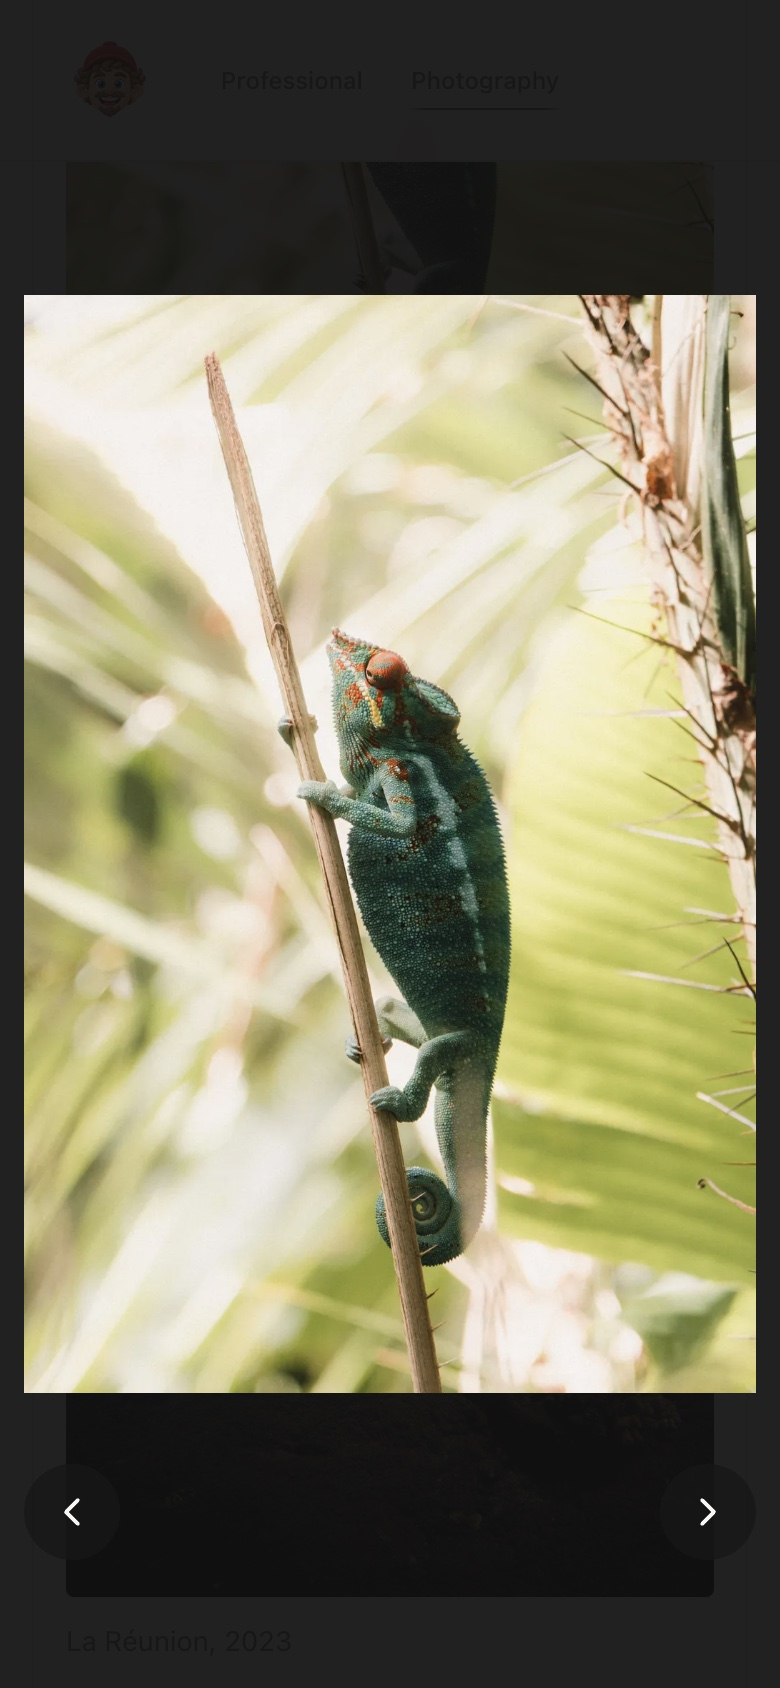
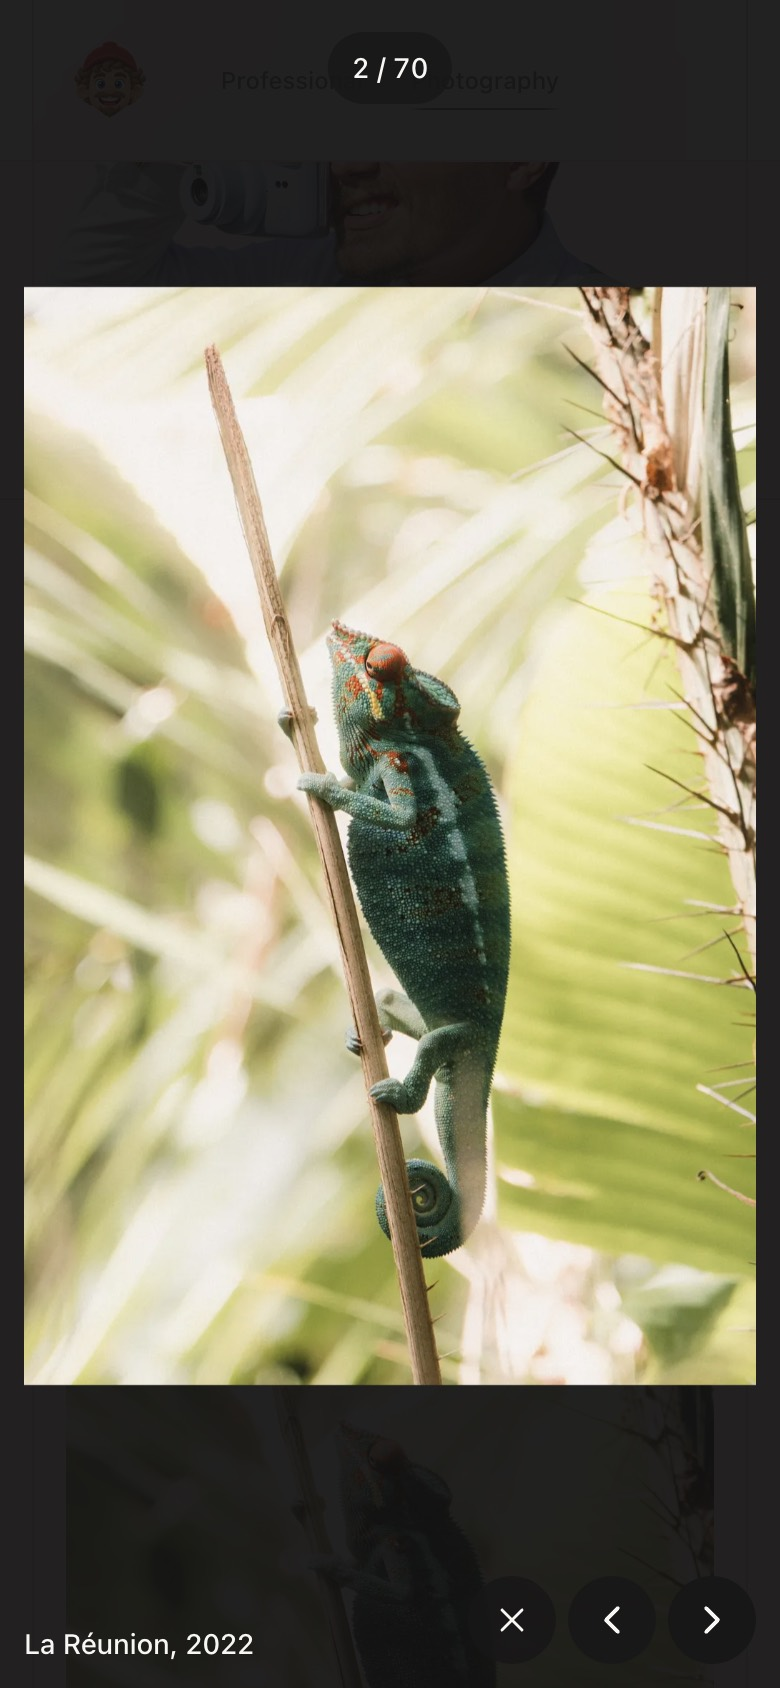
fix: add mobile lightbox metadata footer

diff --git a/apps/web/src/routes/photography.tsx b/apps/web/src/routes/photography.tsx
@@ -147,7 +147,7 @@ function PhotographDialog({
       className="fixed inset-0 h-dvh w-screen outline-none"
     >
       <Dialog.Close
-        className="absolute top-4 right-4 z-10 grid size-11 cursor-pointer place-items-center rounded-full bg-charcoal/80 text-paper transition-colors hover:bg-charcoal focus-visible:outline-2 focus-visible:outline-offset-2 focus-visible:outline-paper"
+        className="absolute top-4 right-4 z-10 hidden size-11 cursor-pointer place-items-center rounded-full bg-charcoal/80 text-paper transition-colors hover:bg-charcoal focus-visible:outline-2 focus-visible:outline-offset-2 focus-visible:outline-paper sm:grid"
         aria-label="Close photograph"
       >
         <svg
@@ -162,7 +162,7 @@ function PhotographDialog({
           <path d="m6 6 12 12M18 6 6 18" />
         </svg>
       </Dialog.Close>
-      <div className="absolute inset-x-3 top-16 bottom-16 flex items-center justify-center sm:inset-x-20">
+      <div className="absolute inset-x-3 top-16 bottom-[calc(env(safe-area-inset-bottom)+4.5rem)] flex items-center justify-center sm:inset-x-20 sm:bottom-16">
         <ModalPhotograph key={photo.src} photo={photo} />
       </div>
       <output
@@ -174,7 +174,7 @@ function PhotographDialog({
         {index + 1} / {photographs.length}
       </output>
       <button
-        className="absolute bottom-16 left-3 top-auto z-10 grid size-12 translate-y-0 place-items-center rounded-full bg-charcoal/80 text-paper transition-colors hover:bg-charcoal focus-visible:outline-2 focus-visible:outline-offset-2 focus-visible:outline-paper sm:top-1/2 sm:bottom-auto sm:-translate-y-1/2 sm:left-6"
+        className="absolute right-auto bottom-[calc(env(safe-area-inset-bottom)+0.75rem)] left-3 top-auto z-10 hidden size-11 translate-y-0 place-items-center rounded-full bg-charcoal/80 text-paper transition-colors hover:bg-charcoal focus-visible:outline-2 focus-visible:outline-offset-2 focus-visible:outline-paper sm:top-1/2 sm:bottom-auto sm:grid sm:size-12 sm:-translate-y-1/2 sm:left-6"
         type="button"
         onClick={() => onNavigate(-1)}
         aria-label="Previous photograph"
@@ -193,11 +193,13 @@ function PhotographDialog({
           <path d="m15 18-6-6 6-6" />
         </svg>
       </button>
-      <Dialog.Title className="absolute right-16 bottom-5 left-16 truncate text-center text-sm font-medium text-paper sm:right-20 sm:left-20">
-        {photographCaption(photo) || "Photograph"}
+      <Dialog.Title className="absolute right-[10.75rem] bottom-[calc(env(safe-area-inset-bottom)+0.75rem)] left-3 z-10 line-clamp-2 text-left text-sm leading-5 font-medium text-paper sm:right-20 sm:bottom-5 sm:left-20 sm:line-clamp-none sm:truncate sm:text-center">
+        {photographCaption(photo) || (
+          <span className="sr-only">Photograph</span>
+        )}
       </Dialog.Title>
       <button
-        className="absolute bottom-16 right-3 top-auto z-10 grid size-12 translate-y-0 place-items-center rounded-full bg-charcoal/80 text-paper transition-colors hover:bg-charcoal focus-visible:outline-2 focus-visible:outline-offset-2 focus-visible:outline-paper sm:top-1/2 sm:bottom-auto sm:-translate-y-1/2 sm:right-6"
+        className="absolute right-3 bottom-[calc(env(safe-area-inset-bottom)+0.75rem)] left-auto top-auto z-10 hidden size-11 translate-y-0 place-items-center rounded-full bg-charcoal/80 text-paper transition-colors hover:bg-charcoal focus-visible:outline-2 focus-visible:outline-offset-2 focus-visible:outline-paper sm:top-1/2 sm:bottom-auto sm:grid sm:size-12 sm:-translate-y-1/2 sm:right-6"
         type="button"
         onClick={() => onNavigate(1)}
         aria-label="Next photograph"
@@ -216,6 +218,64 @@ function PhotographDialog({
           <path d="m9 18 6-6-6-6" />
         </svg>
       </button>
+      <div className="absolute right-3 bottom-[calc(env(safe-area-inset-bottom)+0.75rem)] z-10 flex gap-1.5 sm:hidden">
+        <Dialog.Close
+          className="grid size-11 cursor-pointer place-items-center rounded-full bg-charcoal/80 text-paper transition-colors hover:bg-charcoal focus-visible:outline-2 focus-visible:outline-offset-2 focus-visible:outline-paper"
+          aria-label="Close photograph"
+        >
+          <svg
+            aria-hidden="true"
+            viewBox="0 0 24 24"
+            className="size-5"
+            fill="none"
+            stroke="currentColor"
+            strokeWidth="1.8"
+            strokeLinecap="round"
+          >
+            <path d="m6 6 12 12M18 6 6 18" />
+          </svg>
+        </Dialog.Close>
+        <button
+          className="grid size-11 place-items-center rounded-full bg-charcoal/80 text-paper transition-colors hover:bg-charcoal focus-visible:outline-2 focus-visible:outline-offset-2 focus-visible:outline-paper"
+          type="button"
+          onClick={() => onNavigate(-1)}
+          aria-label="Previous photograph"
+          aria-keyshortcuts="ArrowLeft"
+        >
+          <svg
+            aria-hidden="true"
+            viewBox="0 0 24 24"
+            className="size-6"
+            fill="none"
+            stroke="currentColor"
+            strokeWidth="1.8"
+            strokeLinecap="round"
+            strokeLinejoin="round"
+          >
+            <path d="m15 18-6-6 6-6" />
+          </svg>
+        </button>
+        <button
+          className="grid size-11 place-items-center rounded-full bg-charcoal/80 text-paper transition-colors hover:bg-charcoal focus-visible:outline-2 focus-visible:outline-offset-2 focus-visible:outline-paper"
+          type="button"
+          onClick={() => onNavigate(1)}
+          aria-label="Next photograph"
+          aria-keyshortcuts="ArrowRight"
+        >
+          <svg
+            aria-hidden="true"
+            viewBox="0 0 24 24"
+            className="size-6"
+            fill="none"
+            stroke="currentColor"
+            strokeWidth="1.8"
+            strokeLinecap="round"
+            strokeLinejoin="round"
+          >
+            <path d="m9 18 6-6-6-6" />
+          </svg>
+        </button>
+      </div>
     </Dialog.Popup>
   )
 }
